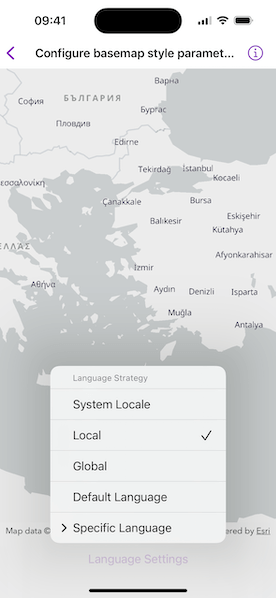
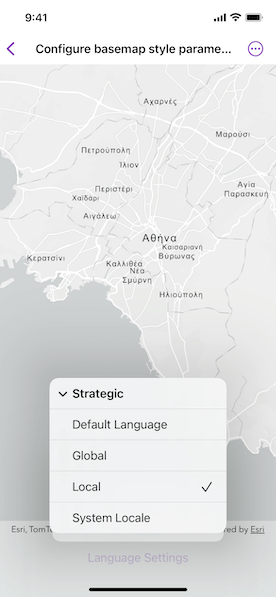
Replace OpenStreetMap with ArcGIS BasemapStyle.

diff --git a/Shared/Samples/Configure basemap style parameters/ConfigureBasemapStyleParametersView.swift b/Shared/Samples/Configure basemap style parameters/ConfigureBasemapStyleParametersView.swift
@@ -20,7 +20,9 @@ struct ConfigureBasemapStyleParametersView: View {
     @StateObject private var model = Model()
     
     /// The selected basemap style language strategy.
-    @State private var selectedLanguage: BasemapStyleLanguage = .strategic(.global)
+    /// Sets the language strategy to global to use English, local to use the
+    /// local language, or a locale to use a specific language.
+    @State private var selectedLanguage: BasemapStyleLanguage = .strategic(.local)
     
     var body: some View {
         MapView(map: model.map)
@@ -68,7 +70,7 @@ struct ConfigureBasemapStyleParametersView: View {
         }
         .menuOrder(.fixed)
         .labelStyle(.titleAndIcon)
-        .onChange(of: selectedLanguage) {
+        .onChange(of: selectedLanguage, initial: true) {
             model.setBasemapLanguage(selectedLanguage)
         }
     }
@@ -78,19 +80,16 @@ private extension ConfigureBasemapStyleParametersView {
     /// The model used to store the geo model and other expensive objects
     /// used in this view.
     class Model: ObservableObject {
-        /// A map with OpenStreetMap light gray basemap.
+        /// A an empty map with an initial viewpoint.
         let map: Map = {
-            let map = Map(
-                basemap: Basemap(
-                    // An OpenStreetMap basemap style is used to support localization.
-                    style: .osmLightGray,
-                    // Set the language strategy to global to use English.
-                    parameters: BasemapStyleParameters(language: .strategic(.global))
-                )
+            let map = Map()
+            // Start with a viewpoint around Bulgaria, Greece, and Turkey.
+            // They use three different alphabets: Cyrillic, Greek, and Latin,
+            // respectively. The scale is set to Metropolitan Area level.
+            map.initialViewpoint = Viewpoint(
+                center: Point(x: 2_640_000, y: 4_570_000),
+                scale: 288895.277144
             )
-            // Start with a viewpoint over Bulgaria, Greece, and Turkey.
-            // They use three different alphabets: Cyrillic, Greek, and Latin, respectively.
-            map.initialViewpoint = Viewpoint(center: Point(x: 3_000_000, y: 4_500_000), scale: 1e7)
             return map
         }()
         
@@ -105,7 +104,7 @@ private extension ConfigureBasemapStyleParametersView {
         /// - Parameter language: The language setting for the basemap.
         func setBasemapLanguage(_ language: BasemapStyleLanguage) {
             let parameters = BasemapStyleParameters(language: language)
-            map.basemap = Basemap(style: .osmLightGray, parameters: parameters)
+            map.basemap = Basemap(style: .arcGISLightGray, parameters: parameters)
         }
     }
 }

diff --git a/Shared/Samples/Configure basemap style parameters/README.md b/Shared/Samples/Configure basemap style parameters/README.md
@@ -34,7 +34,7 @@ Pan and zoom to navigate the map and see how different labels are displayed in t
 
 ## About the data
 
-The main data for this sample is the basemap style which includes basemaps that support both language localization and global language setting. The supported languages, along with their language code, can be found in the [API's documentation](https://developers.arcgis.com/rest/basemap-styles/#languages).
+The main data for this sample is the basemap style which includes basemaps that support both language localization and global language setting. The supported languages, along with their language code, can be found in the [API's documentation](https://developers.arcgis.com/rest/basemap-styles/languages/).
 
 ## Tags
 
